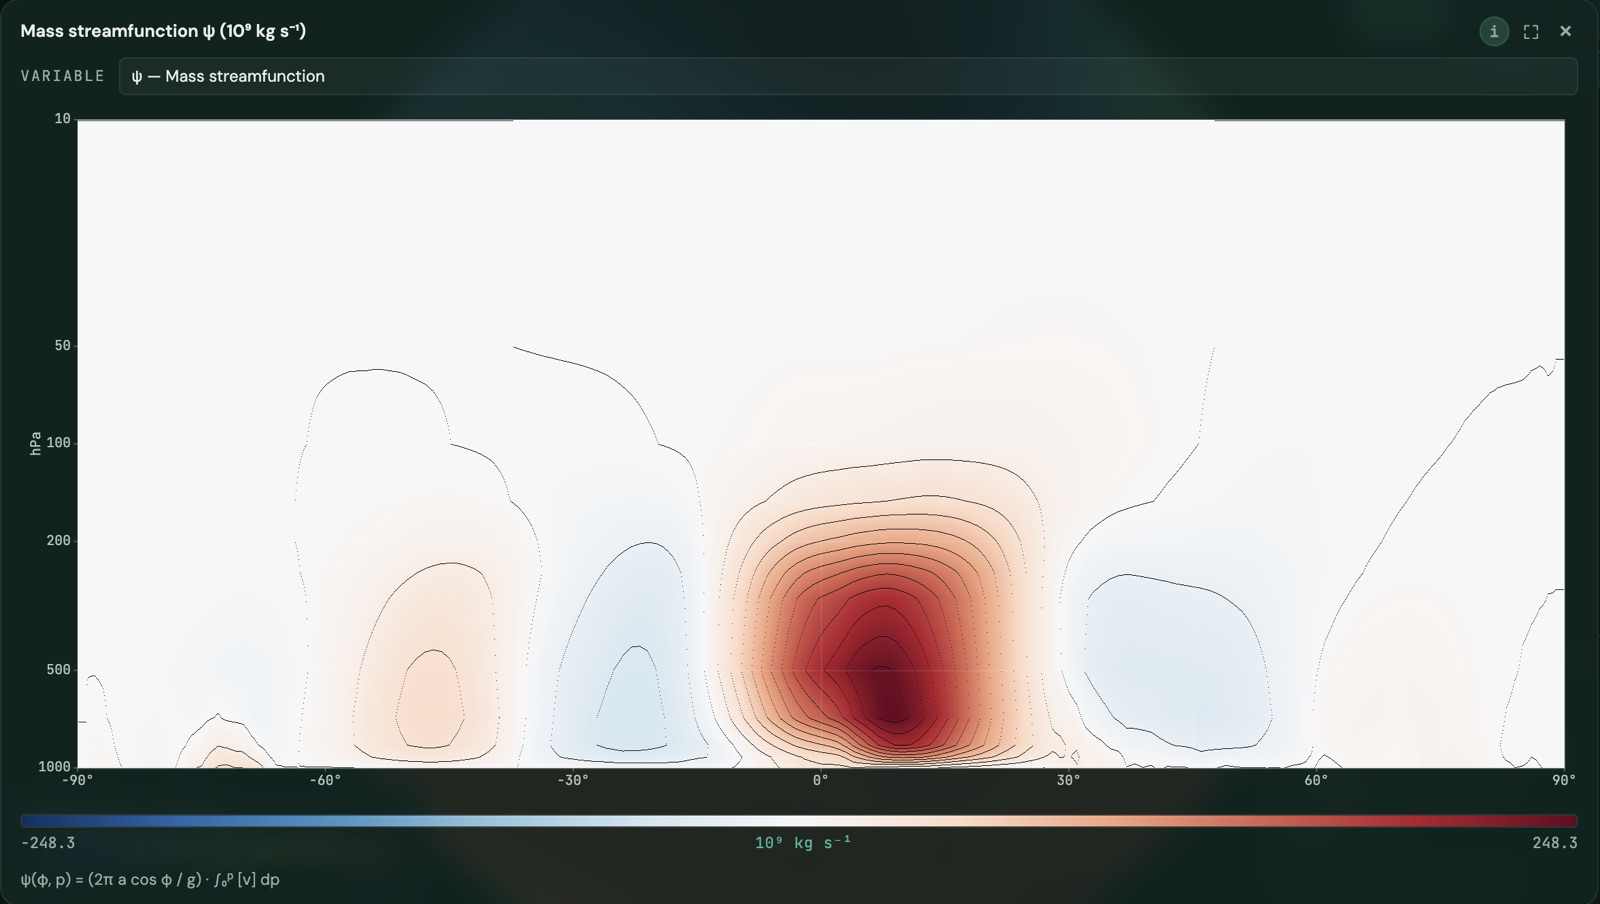
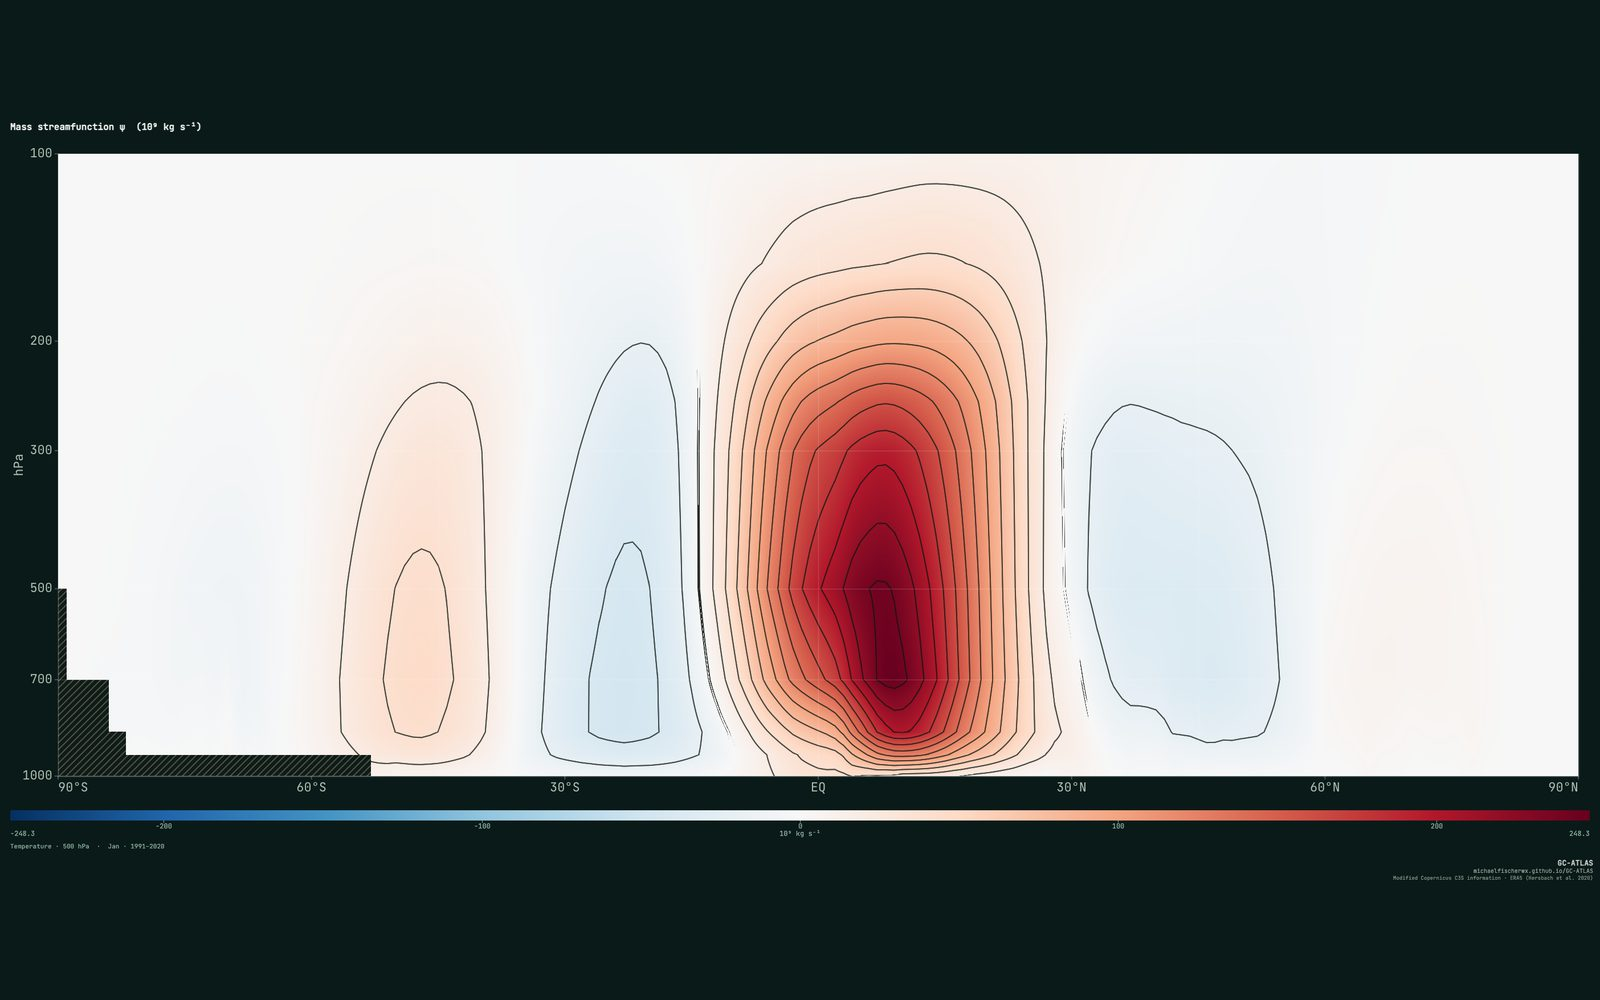
Gallery: recapture all nine tiles from the current build
The landing-page thumbnails were April captures that predated the
section-plot, colormap and overlay-ink changes (the Hadley tile showed
the old broken contours and a 10 hPa top). All nine are re-exported
with the app's own exporter and padded to exactly 16:10 so the tile's
object-fit no longer crops the caption.

- Walker: precipitation shaded with 200 hPa chi contoured (cof=chi),
  Pacific-centred; link, kicker and caption updated.
- PV link pinned to magma 0-8 PVU, warming to +-3 K, El Nino map
  centred on the Pacific, so each link opens as its tile shows.
- Earth in its orbit is now a true annual cycle with the whole orbit
  in frame.
- README: capture recipe (exporter, pad to 16:10, 1600x1000).

diff --git a/index.html b/index.html
@@ -192,7 +192,7 @@
             </a>
 
             <!-- 5. Dynamic tropopause — PV on 330K -->
-            <a class="view-tile" href="globe.html#v=g&f=pv&vc=t&th=330&m=1"
+            <a class="view-tile" href="globe.html#v=g&f=pv&vc=t&th=330&m=1&cm=magma&cbmin=0&cbmax=8"
                style="--tile-a:#0E8C6E; --tile-b:#A98AC7">
                 <div class="view-thumb">
                     <img src="assets/gallery/pv-330k.jpg" alt=""
@@ -207,7 +207,7 @@
             </a>
 
             <!-- 6. Warming since 1961 -->
-            <a class="view-tile" href="globe.html#v=m&f=t2m&m=11&rp=1961-1990&d=anomaly"
+            <a class="view-tile" href="globe.html#v=m&f=t2m&m=11&rp=1961-1990&d=anomaly&cbmin=-3&cbmax=3"
                style="--tile-a:#0C2420; --tile-b:#A26A45">
                 <div class="view-thumb">
                     <img src="assets/gallery/warming-1961.jpg" alt=""
@@ -222,7 +222,7 @@
             </a>
 
             <!-- 7. El Niño January — RONI composite SST -->
-            <a class="view-tile" href="globe.html#v=m&f=sst&m=1&cr=c:roni:ge:1.0:1&d=anomaly"
+            <a class="view-tile" href="globe.html#v=m&f=sst&m=1&cr=c:roni:ge:1.0:1&d=anomaly&mc=-160"
                style="--tile-a:#123524; --tile-b:#A26A45">
                 <div class="view-thumb">
                     <img src="assets/gallery/elnino-roni.jpg" alt=""
@@ -236,21 +236,22 @@
                 </div>
             </a>
 
-            <!-- 8. Walker circulation — annual-cycle χ GIF (Pacific-centered map).
-                 mc= shifts the map's central meridian to ~150°W so the
-                 Indo-Pacific warm pool / cold-tongue dipole sits in the
-                 middle of the frame instead of being split across the
-                 seam. Same framing the GIF was captured with. -->
-            <a class="view-tile" href="globe.html#v=m&f=chi&L=200&m=12&cm=RdBu_r&mc=-149.55567535285138"
+            <!-- 8. Walker circulation — annual-cycle GIF: precipitation shaded,
+                 200 hPa χ contoured (cof=chi; the overlay is drawn at L=200).
+                 mc= puts the central meridian at 150°W so the Indo-Pacific
+                 warm pool / cold-tongue dipole sits mid-frame instead of
+                 being split across the seam. Same framing the GIF was
+                 captured with. -->
+            <a class="view-tile" href="globe.html#v=m&f=tp&L=200&m=12&cm=thalo&cbmin=0&cbmax=15&ctr=1&cof=chi&mc=-150"
                style="--tile-a:#0C2420; --tile-b:#E8C26A">
                 <div class="view-thumb">
                     <img src="assets/gallery/walker-chi.gif" alt=""
                          loading="lazy" onerror="this.style.display='none'">
                 </div>
                 <div class="view-meta">
-                    <div class="view-kicker">Annual cycle · 200 hPa χ</div>
+                    <div class="view-kicker">Annual cycle · precipitation + 200 hPa χ</div>
                     <div class="view-title">The Walker circulation</div>
-                    <div class="view-caption">200 hPa velocity potential χ through the year, Pacific-centered. Divergence (blue) anchors over the warm pool and migrates with the ITCZ; convergence (red) locks over the eastern-Pacific cold tongue and the African/Atlantic subsidence lobes.</div>
+                    <div class="view-caption">Precipitation with 200 hPa velocity potential χ contoured, Pacific-centered. The χ minimum (upper-level divergence) sits on the warm-pool rain and follows the monsoons through the year; χ maxima (convergence aloft) lock over the dry eastern Pacific and Atlantic.</div>
                     <div class="view-cta">Open this view <span>→</span></div>
                 </div>
             </a>

diff --git a/assets/gallery/README.md b/assets/gallery/README.md
@@ -11,8 +11,12 @@ tile upgrades automatically.
    href from `index.html`).
 2. Let the data load. Optional: adjust the view a little (camera angle,
    month-within-season) if you want a more flattering framing.
-3. Capture the globe/map area — **macOS:** Cmd-Shift-4, then drag over
-   the canvas. Target ~1000-1600 px wide, 10:6.3 aspect.
+3. Capture with the app's own exporter (**Save view → Still image**, or
+   **Cross-section** for the ψ tile) so the caption ribbon and
+   attribution come with it. Tiles are 16:10 with `object-fit: cover`:
+   pad the capture top/bottom with the export background `#0a1a18` to
+   exactly 16:10 (don't crop — the caption sits at the left edge), then
+   resize to 1600×1000. The November 2026 set was made this way.
 4. Save as `<slug>.jpg` at ~80% quality into this directory. Slugs:
 
    | Slug                   | View                        |
